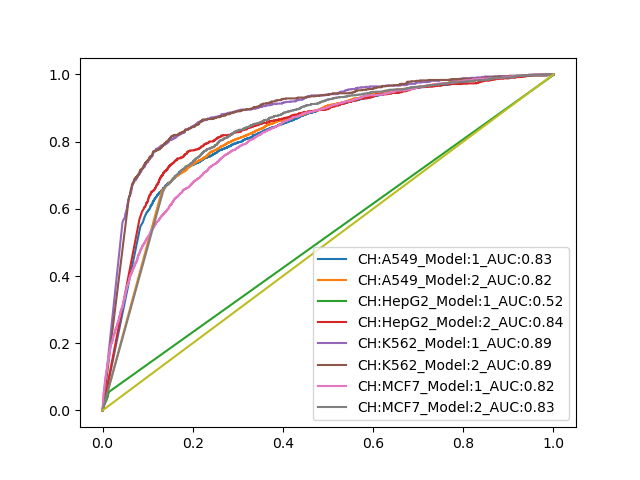
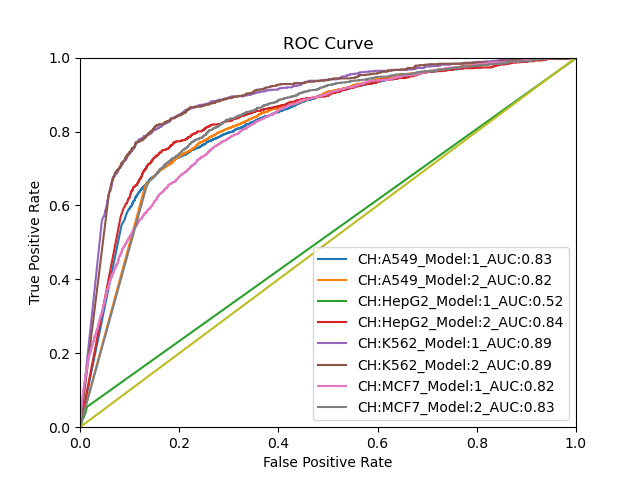
proper labels for visualizer

diff --git a/Chrom_Proj/visualizer.py b/Chrom_Proj/visualizer.py
@@ -64,7 +64,13 @@ def plotAll(location):
     plt.legend()
     plt.savefig("prc_FULL.png")
     plt.clf()
-    #==============================, 
+    #==============================
+    plt.xlabel('False Positive Rate')
+    plt.ylabel('True Positive Rate')
+    plt.title('ROC Curve')
+    plt.legend()
+    plt.xlim(0,1)
+    plt.ylim(0,1)
     for pre,rec in zip(data["fpr"], data["tpr"]):
         print("processing: {}".format(pre[0]))
         print("processing: {}".format(rec[0]))
